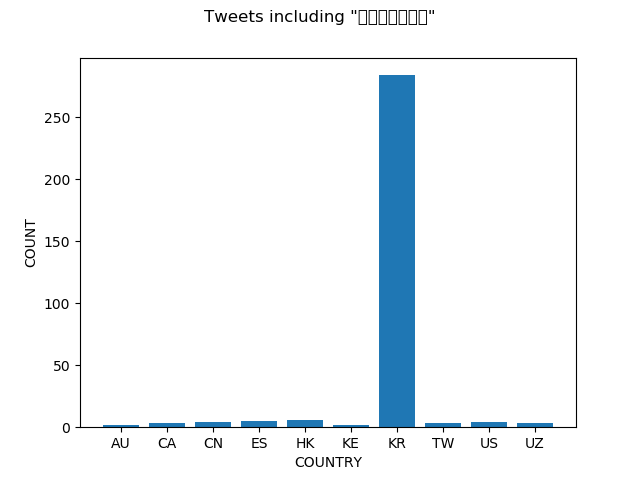
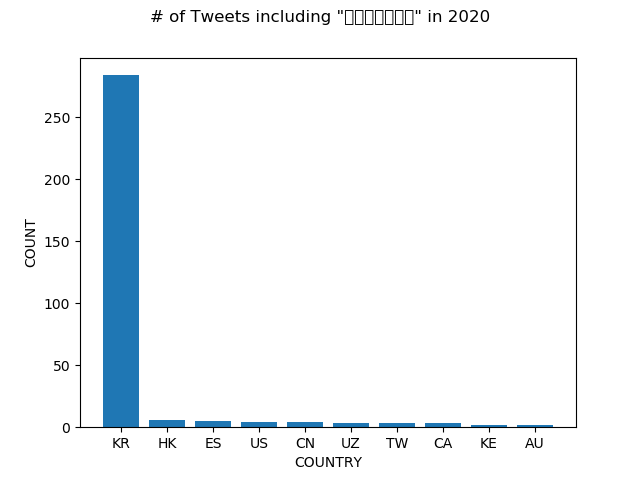
sort v3

diff --git a/src/visualize.py b/src/visualize.py
@@ -40,22 +40,15 @@ num_tweets = []
 for i in top_10:
     num_tweets.append(hashmap[i])
 
-df = pd.DataFrame(
-    dict(
-        x_axis = top_10,
-        y_axis = num_tweets
-        )
-)
-
-df_sorted = df.sort_values('y_axis')
-
 # build bar chart
 x = args.input_path.split('.')[2].upper()
 key = args.key.split('#')[1]
-plt.bar('x_axis', 'y_axis', data = df_sorted)
-plt.suptitle(f'Tweets including "{key}"')
+
+plt.bar([i for i in range(len(top_10))], num_tweets)
+plt.suptitle(f'# of Tweets including "{key}" in 2020')
 plt.xlabel(f'{x}')
 plt.ylabel("COUNT")
+plt.xticks([i for i in range(len(top_10))], top_10)
 
 # save chart as png file
 plt.savefig(f'{key}_tweets_by_{x.lower()}.png')
